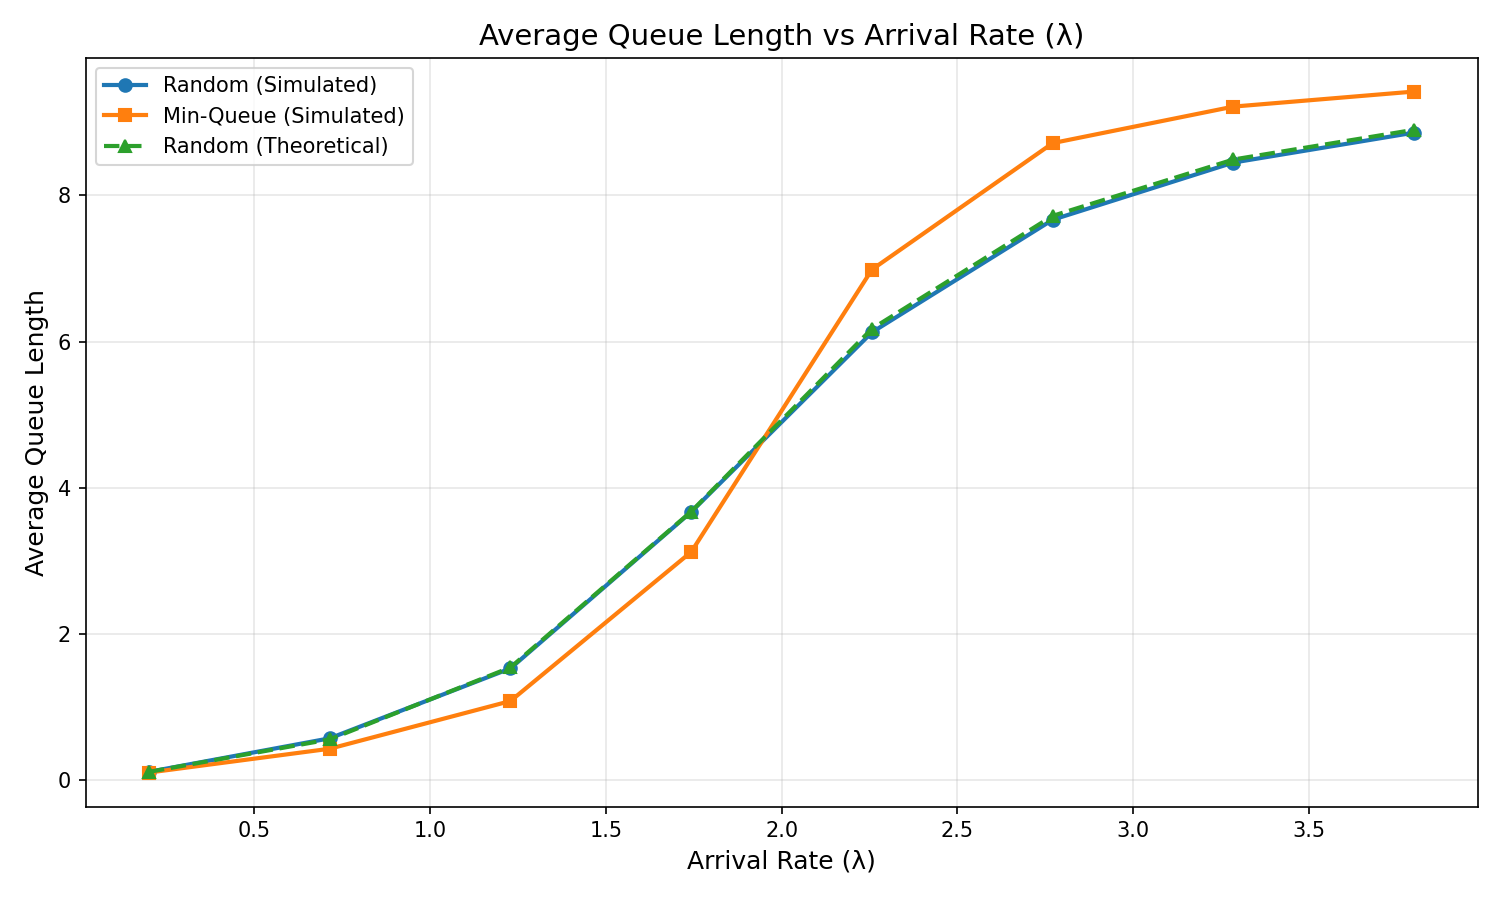
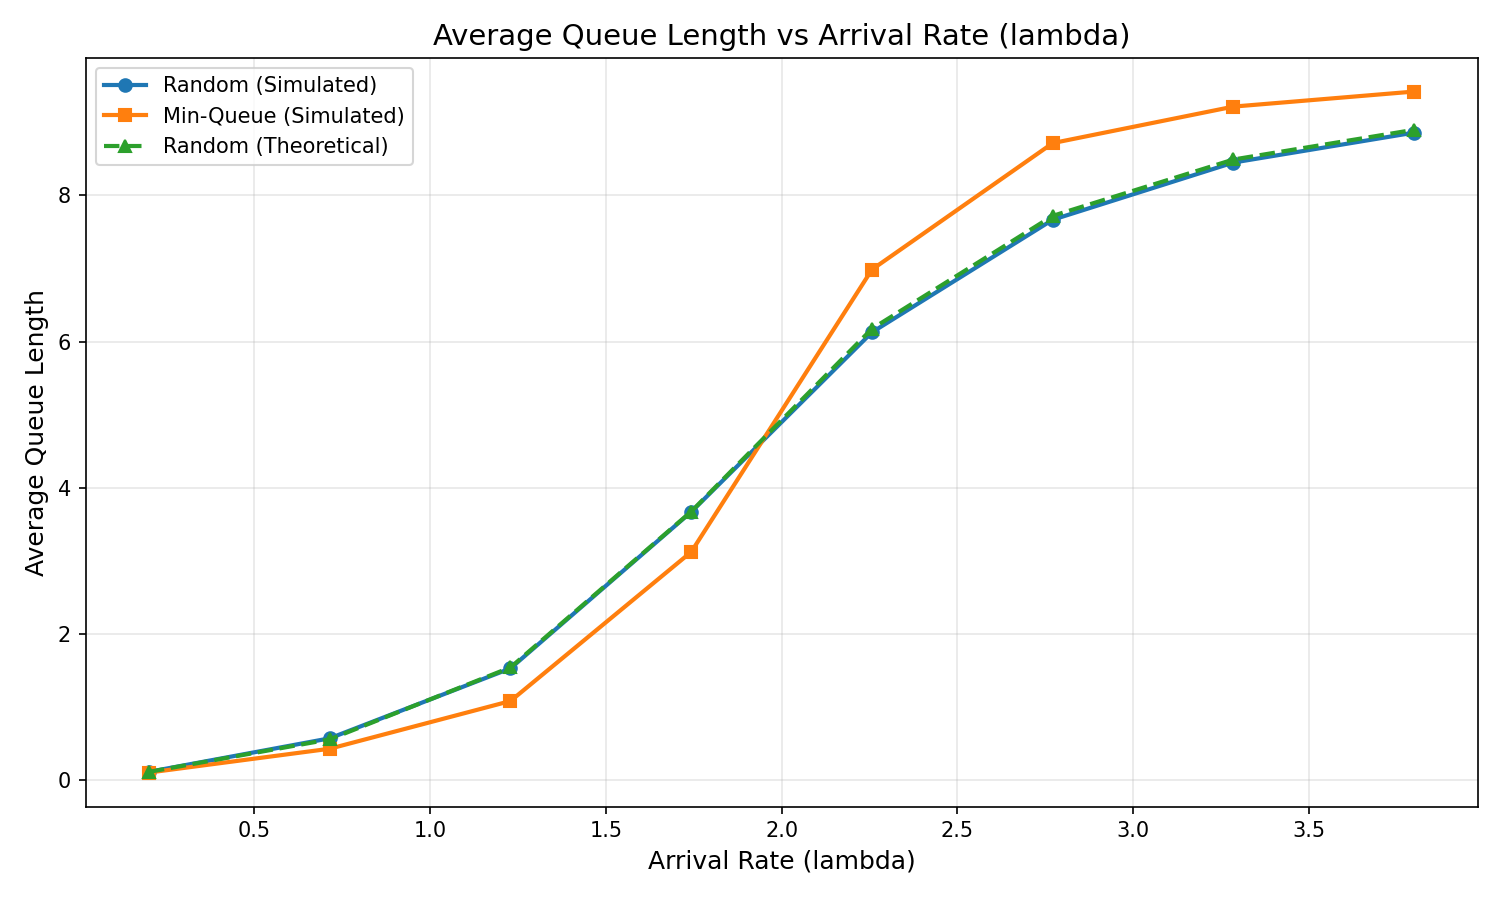
symbol updates

Changed region(s): [[0.276, 0.0311, 0.7667, 0.0622], [0.4293, 0.9333, 0.6133, 0.9644]]

diff --git a/queue_simulation.py b/queue_simulation.py
@@ -249,7 +249,7 @@ def vary_arrival_rate(service_rate=1.0, num_points=10):
     theory_results = {'blocking_prob': [], 'avg_queue_length': [], 'avg_sojourn_time': []}
     
     for lambda_ in arrival_rates:
-        print(f"  λ = {lambda_:.2f}")
+        print(f"  lambda = {lambda_:.2f}")
         
         # Random strategy
         metrics = run_multiple_simulations(lambda_, service_rate, 'random')
@@ -278,7 +278,7 @@ def vary_service_rate(arrival_rate=2.0, num_points=10):
     theory_results = {'blocking_prob': [], 'avg_queue_length': [], 'avg_sojourn_time': []}
     
     for mu in service_rates:
-        print(f"  μ = {mu:.2f}")
+        print(f"  mu = {mu:.2f}")
         
         # Random strategy
         metrics = run_multiple_simulations(arrival_rate, mu, 'random')
@@ -298,11 +298,11 @@ def vary_service_rate(arrival_rate=2.0, num_points=10):
     return service_rates, random_results, min_results, theory_results
 
 def vary_traffic_load(num_points=10):
-    """Vary traffic load ρ = λ/(2μ)"""
-    # Keep μ=1, vary λ to get different ρ values
+    """Vary traffic load rho = lambda/(2mu)"""
+    # Keep mu=1, vary lambda to get different rho values
     mu = 1.0
     rho_values = np.linspace(0.1, 1.9, num_points)
-    arrival_rates = rho_values * 2 * mu  # λ = 2μρ
+    arrival_rates = rho_values * 2 * mu  # lambda = 2murho
     
     random_results = {'blocking_prob': [], 'avg_queue_length': [], 'avg_sojourn_time': []}
     min_results = {'blocking_prob': [], 'avg_queue_length': [], 'avg_sojourn_time': []}
@@ -310,7 +310,7 @@ def vary_traffic_load(num_points=10):
     
     for lambda_ in arrival_rates:
         rho = lambda_ / (2 * mu)
-        print(f"  ρ = {rho:.2f}")
+        print(f"  rho = {rho:.2f}")
         
         # Random strategy
         metrics = run_multiple_simulations(lambda_, mu, 'random')
@@ -363,58 +363,58 @@ def main():
     os.makedirs(output_dir, exist_ok=True)
     
     # Experiment 1: Vary arrival rate
-    print("\n1. Varying arrival rate (λ)...")
+    print("\n1. Varying arrival rate (lambda)...")
     arrival_rates, random_res1, min_res1, theory_res1 = vary_arrival_rate(service_rate=1.0, num_points=8)
     
-    fig1 = plot_results(arrival_rates, 'Arrival Rate (λ)', random_res1, min_res1, theory_res1,
+    fig1 = plot_results(arrival_rates, 'Arrival Rate (lambda)', random_res1, min_res1, theory_res1,
                         'blocking_prob', 'Blocking Probability')
     fig1.savefig(os.path.join(output_dir, 'fig1_blocking_vs_lambda.png'), dpi=150)
     plt.close()
     
-    fig2 = plot_results(arrival_rates, 'Arrival Rate (λ)', random_res1, min_res1, theory_res1,
+    fig2 = plot_results(arrival_rates, 'Arrival Rate (lambda)', random_res1, min_res1, theory_res1,
                         'avg_queue_length', 'Average Queue Length')
     fig2.savefig(os.path.join(output_dir, 'fig2_queue_vs_lambda.png'), dpi=150)
     plt.close()
     
-    fig3 = plot_results(arrival_rates, 'Arrival Rate (λ)', random_res1, min_res1, theory_res1,
+    fig3 = plot_results(arrival_rates, 'Arrival Rate (lambda)', random_res1, min_res1, theory_res1,
                         'avg_sojourn_time', 'Average Sojourn Time')
     fig3.savefig(os.path.join(output_dir, 'fig3_sojourn_vs_lambda.png'), dpi=150)
     plt.close()
     
     # Experiment 2: Vary service rate
-    print("\n2. Varying service rate (μ)...")
+    print("\n2. Varying service rate (mu)...")
     service_rates, random_res2, min_res2, theory_res2 = vary_service_rate(arrival_rate=2.0, num_points=8)
     
-    fig4 = plot_results(service_rates, 'Service Rate (μ)', random_res2, min_res2, theory_res2,
+    fig4 = plot_results(service_rates, 'Service Rate (mu)', random_res2, min_res2, theory_res2,
                         'blocking_prob', 'Blocking Probability')
     fig4.savefig(os.path.join(output_dir, 'fig4_blocking_vs_mu.png'), dpi=150)
     plt.close()
     
-    fig5 = plot_results(service_rates, 'Service Rate (μ)', random_res2, min_res2, theory_res2,
+    fig5 = plot_results(service_rates, 'Service Rate (mu)', random_res2, min_res2, theory_res2,
                         'avg_queue_length', 'Average Queue Length')
     fig5.savefig(os.path.join(output_dir, 'fig5_queue_vs_mu.png'), dpi=150)
     plt.close()
     
-    fig6 = plot_results(service_rates, 'Service Rate (μ)', random_res2, min_res2, theory_res2,
+    fig6 = plot_results(service_rates, 'Service Rate (mu)', random_res2, min_res2, theory_res2,
                         'avg_sojourn_time', 'Average Sojourn Time')
     fig6.savefig(os.path.join(output_dir, 'fig6_sojourn_vs_mu.png'), dpi=150)
     plt.close()
     
     # Experiment 3: Vary traffic load
-    print("\n3. Varying traffic load (ρ)...")
+    print("\n3. Varying traffic load (rho)...")
     rho_values, random_res3, min_res3, theory_res3 = vary_traffic_load(num_points=8)
     
-    fig7 = plot_results(rho_values, 'Traffic Load (ρ)', random_res3, min_res3, theory_res3,
+    fig7 = plot_results(rho_values, 'Traffic Load (rho)', random_res3, min_res3, theory_res3,
                         'blocking_prob', 'Blocking Probability')
     fig7.savefig(os.path.join(output_dir, 'fig7_blocking_vs_rho.png'), dpi=150)
     plt.close()
     
-    fig8 = plot_results(rho_values, 'Traffic Load (ρ)', random_res3, min_res3, theory_res3,
+    fig8 = plot_results(rho_values, 'Traffic Load (rho)', random_res3, min_res3, theory_res3,
                         'avg_queue_length', 'Average Queue Length')
     fig8.savefig(os.path.join(output_dir, 'fig8_queue_vs_rho.png'), dpi=150)
     plt.close()
     
-    fig9 = plot_results(rho_values, 'Traffic Load (ρ)', random_res3, min_res3, theory_res3,
+    fig9 = plot_results(rho_values, 'Traffic Load (rho)', random_res3, min_res3, theory_res3,
                         'avg_sojourn_time', 'Average Sojourn Time')
     fig9.savefig(os.path.join(output_dir, 'fig9_sojourn_vs_rho.png'), dpi=150)
     plt.close()
@@ -424,9 +424,9 @@ def main():
     print("\nSensitivity Analysis Summary:")
     print("-" * 60)
     print("Based on the experiments, the key findings are:")
-    print("1. Traffic load (ρ) has the MOST significant impact on all metrics")
+    print("1. Traffic load (rho) has the MOST significant impact on all metrics")
     print("2. Min-queue strategy consistently outperforms random selection")
-    print("3. Blocking probability increases dramatically when ρ > 0.8")
+    print("3. Blocking probability increases dramatically when rho > 0.8")
     print("4. Queue length and sojourn time grow rapidly as load increases")
 
 if __name__ == "__main__":
